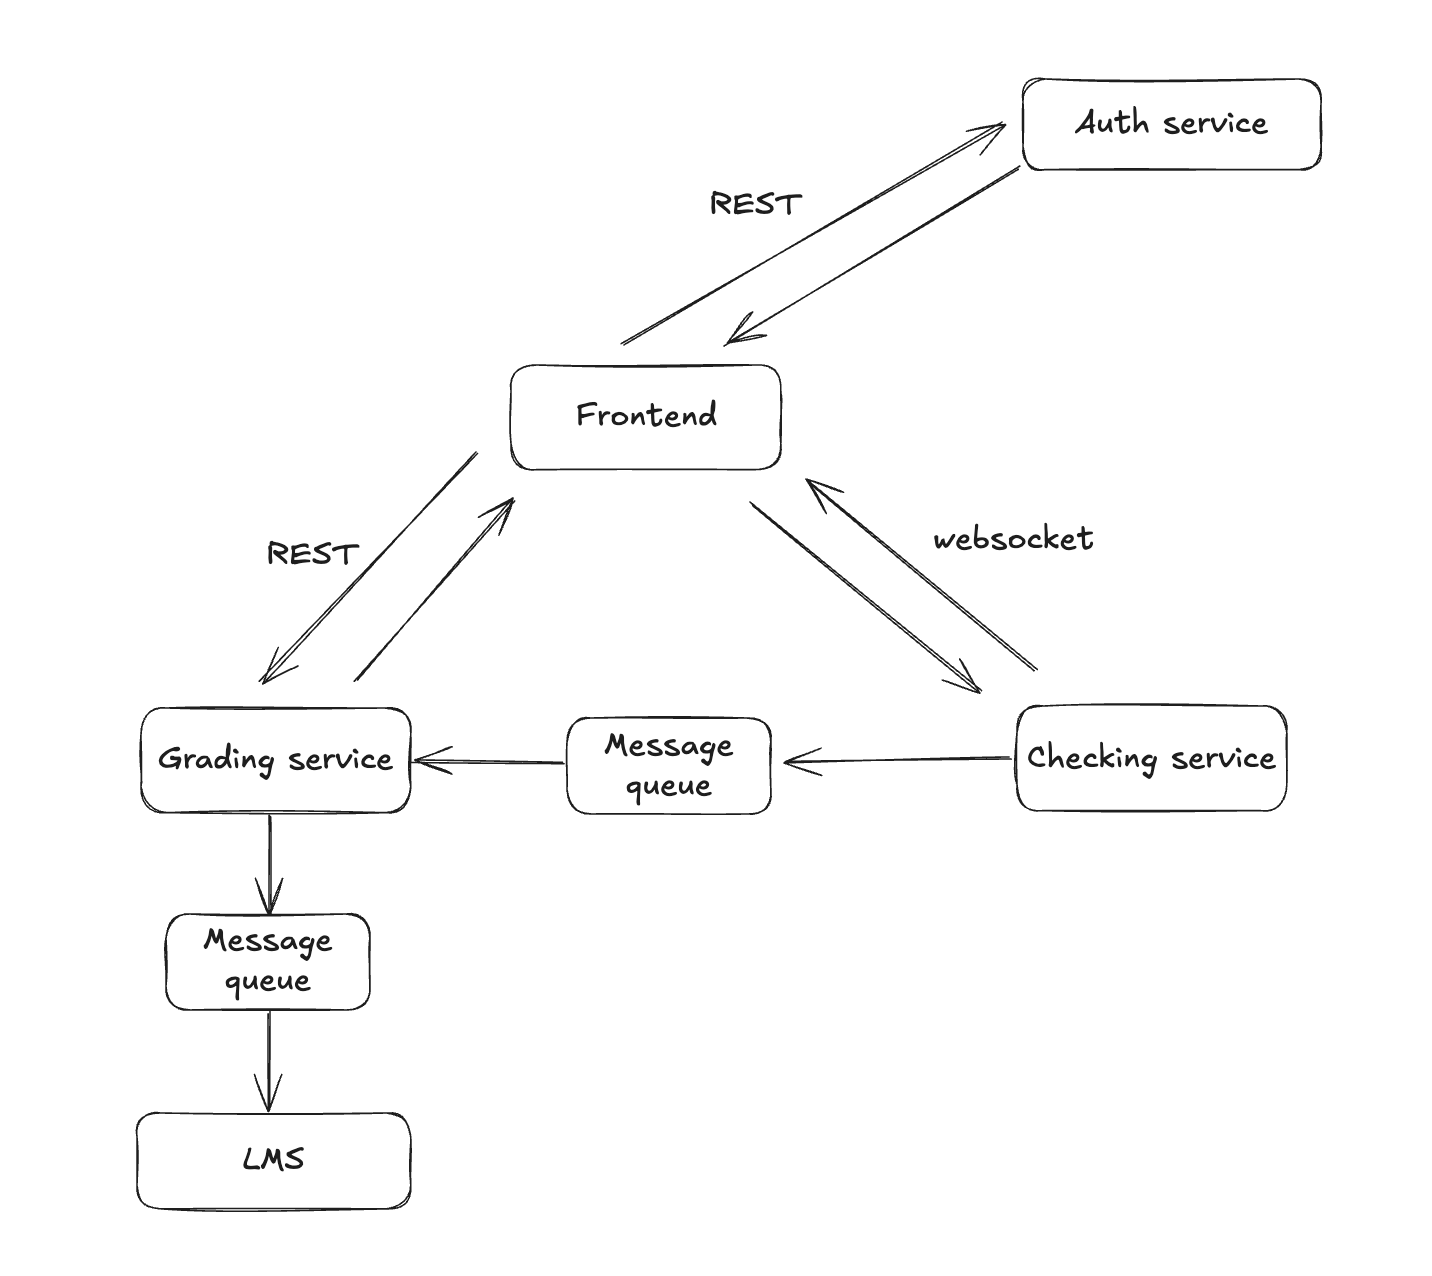
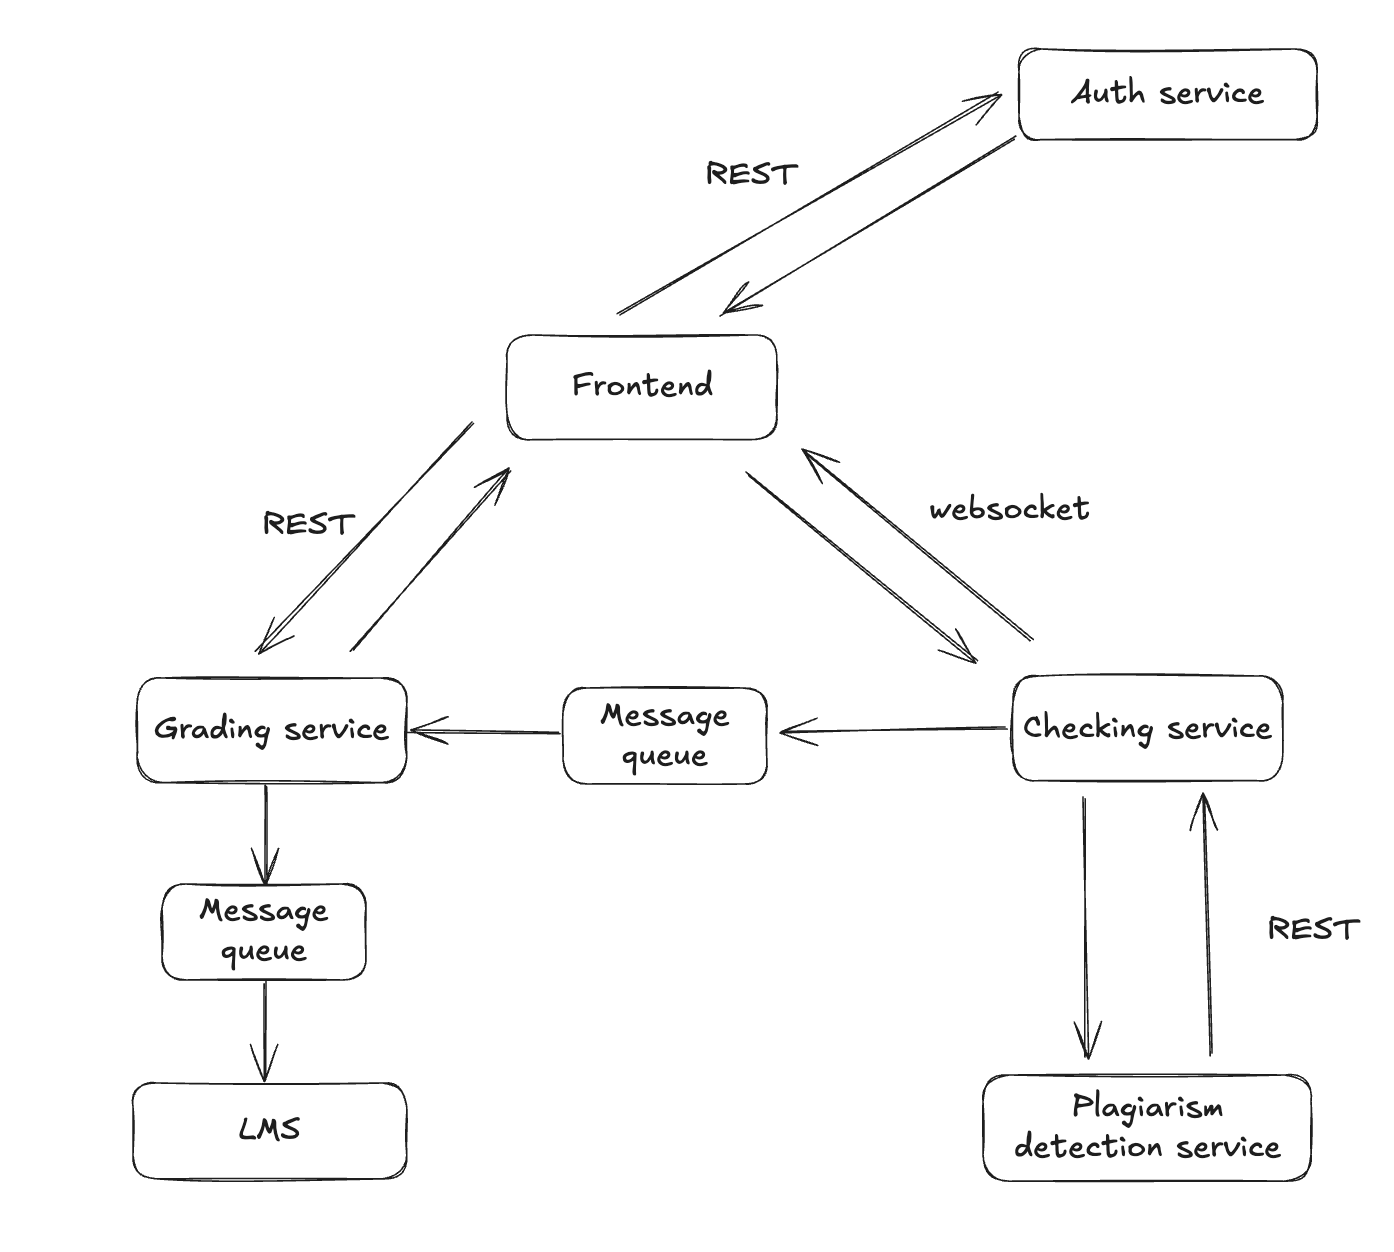
fix: add plagiarism detection service

diff --git a/4/HW2_answer.md b/4/HW2_answer.md
@@ -4,6 +4,8 @@
 2. *Сервис авторизации и аутентификации* (скорее всего, у университета уже есть некий сервис авторизации, лучше авторизоваться через него)
 3. *Сервис запуска и тестирования решений*. Функционал довольно универсальный, поэтому есть смысл вынести в отдельный сервис, чтобы в дальнейшем можно было использовать и для других курсов
 4. *Сервис оценивания*. Может аггрегировать информацию от сервиса запуска решений по отдельным пользователям, на основе этой информации по определенным формулам/алгоритмам рассчитывать оценки и прогресс по курсу и отдавать данные фронту и LMS.
+5. *Сервис проверки на плагиат*
+6. *LMS*. В нашу систему не входит, но с ним будем интегрироваться, поэтому отметим
 
 Интеграции:
 1. *Фронт - сервис авторизации*. Синхронная, так как необходимо отправить  данные и дождаться токена для дальнейшей работы
@@ -11,5 +13,6 @@
 3. *Сервис запуска решений - сервис оценивания*. Асинхронная, можно сделать через очередь сообщений. Ждать ответа смысла нет, так как сервису запуска решений не нужна информация о том, принял его сообщения сервис грейдинга или нет.
 4. *Сервис оценивания - фронтенд*. Скорее всего, оценки по курсу будут располагаться где-то на отдельной странице, поэтому достаточно синхронной интеграции. Используем REST, при открытии страницы с прогрессом по курсу отправляем GET-запросы и получаем нужную инфу.
 5. *Сервис оценивания - LMS*. Асинхронная, можно сделать через очередь сообщений. LMS считает данные, когда будет необходимо
+6. *Сервис запуска решений - Сервис проверки на плагиат*. Пожалуй, лучше сделать синхронную интеграцию, так как запускать решение, не прошедшее проверку на плагиат нет смысла
 
 ![HLD](./hld.png)
